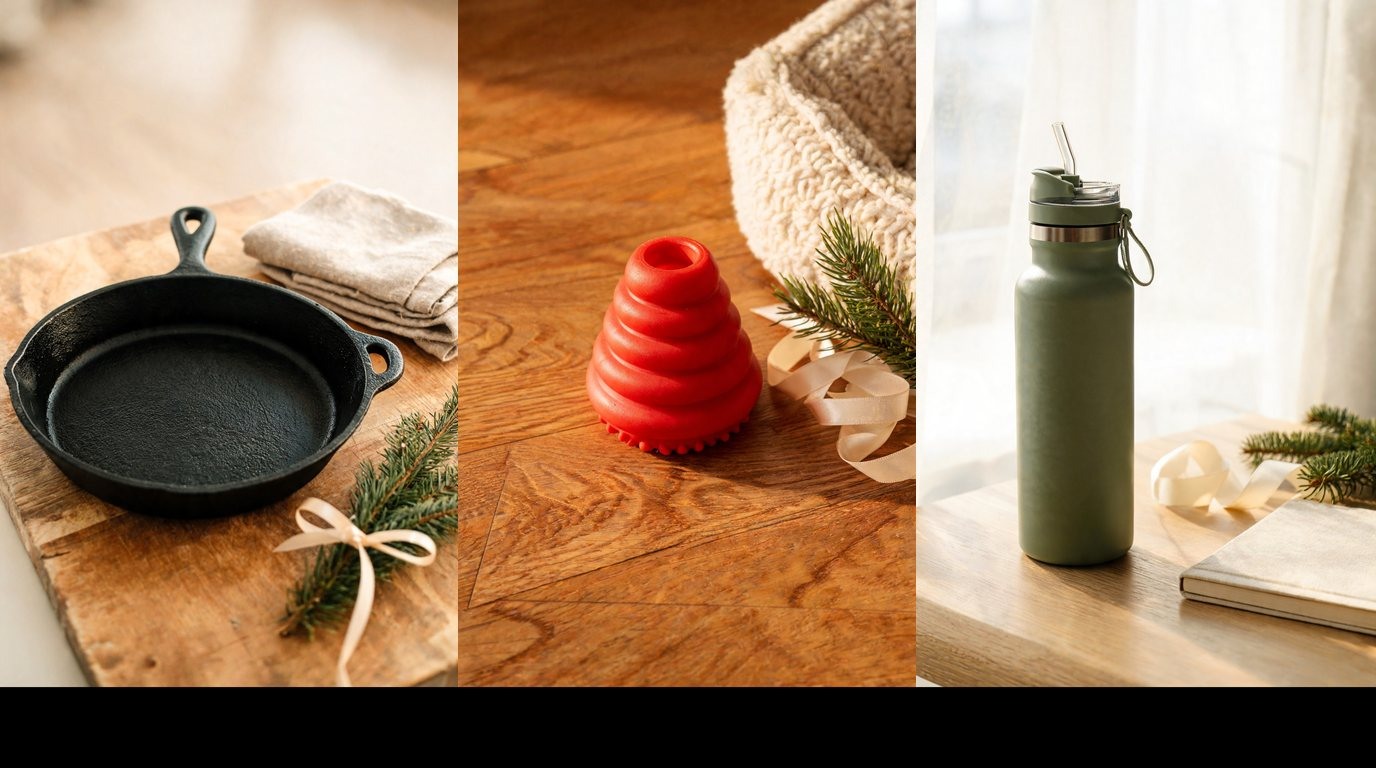
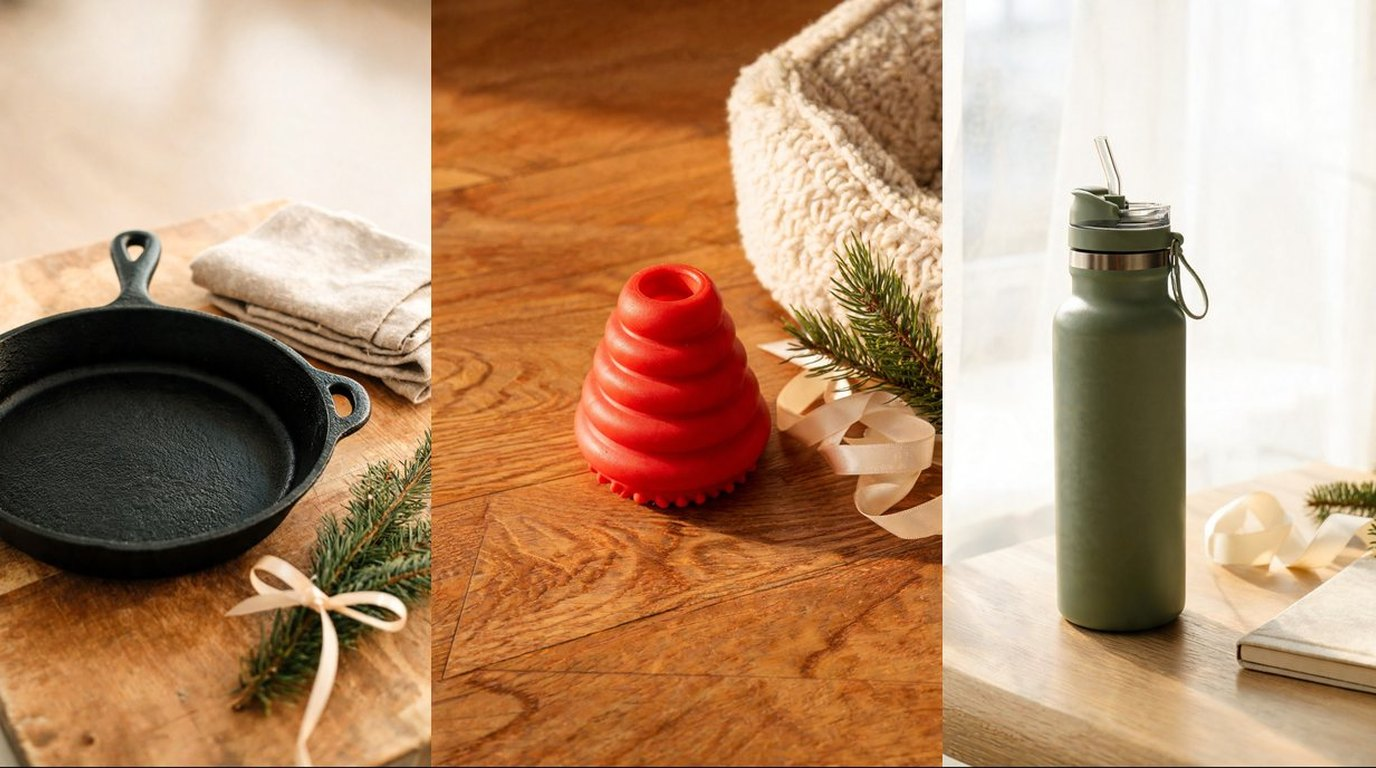
Guides page: add 10 missing hero images, fix holiday hero black bar
Claude-Session: https://claude.ai/code/session_014rjefuyYizqdm1T1pNbaJN

diff --git a/guides/index.html b/guides/index.html
@@ -32,7 +32,7 @@
   </header>
   <section class="gx-grid">
     <a class="gx gx-lead reveal" href="/guides/home-and-kitchen-gift-ideas.html">
-      
+      <span class="gx-img"><img src="/images/guides/hero/home-and-kitchen-gift-ideas.jpg" alt="" width="1376" height="768" loading="eager"></span>
       <span class="gx-body">
         <span class="gx-tag">Gifts guide</span>
         <span class="gx-title">Home and Kitchen Gift Ideas: Five Picks Under $50</span>
@@ -52,7 +52,7 @@
       </span>
     </a>
     <a class="gx reveal" href="/guides/gifts-for-dog-owners.html">
-      
+      <span class="gx-img"><img src="/images/guides/hero/gifts-for-dog-owners.jpg" alt="" width="1376" height="768" loading="lazy"></span>
       <span class="gx-body">
         <span class="gx-tag">Gifts guide</span>
         <span class="gx-title">Gifts for Dog Owners: Four Picks Under $50</span>
@@ -62,7 +62,7 @@
       </span>
     </a>
     <a class="gx reveal" href="/guides/gift-ideas-under-500.html">
-      
+      <span class="gx-img"><img src="/images/guides/hero/gift-ideas-under-500.jpg" alt="" width="1376" height="768" loading="lazy"></span>
       <span class="gx-body">
         <span class="gx-tag">Gifts guide</span>
         <span class="gx-title">Gift Ideas Under $500: Splurge-Worthy Home and Dog Picks</span>
@@ -72,7 +72,7 @@
       </span>
     </a>
     <a class="gx reveal" href="/guides/gift-ideas-under-50.html">
-      
+      <span class="gx-img"><img src="/images/guides/hero/gift-ideas-under-50.jpg" alt="" width="1376" height="768" loading="lazy"></span>
       <span class="gx-body">
         <span class="gx-tag">Gifts guide</span>
         <span class="gx-title">Gift Ideas Under $50: Home, Renter and Dog Picks</span>
@@ -82,7 +82,7 @@
       </span>
     </a>
     <a class="gx reveal" href="/guides/gift-ideas-under-25.html">
-      
+      <span class="gx-img"><img src="/images/guides/hero/gift-ideas-under-25.jpg" alt="" width="1376" height="768" loading="lazy"></span>
       <span class="gx-body">
         <span class="gx-tag">Gifts guide</span>
         <span class="gx-title">Gift Ideas Under $25: Kitchen, Home and Dog Picks</span>
@@ -92,7 +92,7 @@
       </span>
     </a>
     <a class="gx reveal" href="/guides/gift-ideas-under-200.html">
-      
+      <span class="gx-img"><img src="/images/guides/hero/gift-ideas-under-200.jpg" alt="" width="1376" height="768" loading="lazy"></span>
       <span class="gx-body">
         <span class="gx-tag">Gifts guide</span>
         <span class="gx-title">Gift Ideas Under $200: Kitchen, Tech and Pet Picks</span>
@@ -102,7 +102,7 @@
       </span>
     </a>
     <a class="gx reveal" href="/guides/gift-ideas-under-100.html">
-      
+      <span class="gx-img"><img src="/images/guides/hero/gift-ideas-under-100.jpg" alt="" width="1376" height="768" loading="lazy"></span>
       <span class="gx-body">
         <span class="gx-tag">Gifts guide</span>
         <span class="gx-title">Gift Ideas Under $100: Home, Renter and Dog Picks</span>
@@ -112,7 +112,7 @@
       </span>
     </a>
     <a class="gx reveal" href="/guides/fall-capsule-wardrobe-for-women-625-outfits.html">
-      
+      <span class="gx-img"><img src="/images/guides/hero/fall-capsule-wardrobe-for-women-625-outfits.jpg" alt="" width="1376" height="768" loading="lazy"></span>
       <span class="gx-body">
         <span class="gx-tag">Fashion guide</span>
         <span class="gx-title">Fall Capsule Wardrobe for Women: 20 Pieces, 625 Outfits</span>
@@ -122,7 +122,7 @@
       </span>
     </a>
     <a class="gx reveal" href="/guides/fall-capsule-wardrobe-for-men-625-outfits.html">
-      
+      <span class="gx-img"><img src="/images/guides/hero/fall-capsule-wardrobe-for-men-625-outfits.jpg" alt="" width="1376" height="768" loading="lazy"></span>
       <span class="gx-body">
         <span class="gx-tag">Fashion guide</span>
         <span class="gx-title">Fall Capsule Wardrobe for Men: 20 Pieces, 625 Outfits</span>
@@ -132,7 +132,7 @@
       </span>
     </a>
     <a class="gx reveal" href="/guides/fall-capsule-wardrobe-for-kids-625-outfits.html">
-      
+      <span class="gx-img"><img src="/images/guides/hero/fall-capsule-wardrobe-for-kids-625-outfits.jpg" alt="" width="1376" height="768" loading="lazy"></span>
       <span class="gx-body">
         <span class="gx-tag">Fashion guide</span>
         <span class="gx-title">Fall Capsule Wardrobe for Kids: 20 Pieces, 625 Outfits</span>

diff --git a/guides/fall-capsule-wardrobe-for-women-625-outfits.html b/guides/fall-capsule-wardrobe-for-women-625-outfits.html
@@ -36,7 +36,7 @@
     <p class="g-by">By Nest &amp; Paws · Checked Nov 1, 2026 · <a href="/start-here.html">How I pick</a></p>
     
   </header>
-  
+  <figure class="g-hero"><img src="/images/guides/hero/fall-capsule-wardrobe-for-women-625-outfits.jpg" alt="Five women from the collarbone down in olive, brown, oxblood and raspberry layers with matching boots" width="1376" height="768" fetchpriority="high"></figure>
   <div class="pick-bar" role="navigation" aria-label="Jump to a pick"><b>Jump to</b><a href="#pick-1">Women&#x27;s Utility Fashion Jacket</a><a href="#pick-2">Women&#x27;s Tie-Waist Trench Coat</a><a href="#pick-3">Women&#x27;s Crewneck Heritage Cable Cardigan</a><a href="#pick-4">Women&#x27;s Faux Leather Point Collar Cropped Zip-Up Jacket</a><a href="#pick-5">Women&#x27;s Hooded Spongy Zip-Up Sweatshirt</a><a href="#pick-6">Women&#x27;s Cable Collared Pullover Sweater</a><a href="#pick-7">Women&#x27;s Ribbed Knit Pullover Sweater</a><a href="#pick-8">Women&#x27;s Puff Sleeve Tassel Tie-Front Blouse</a><a href="#pick-9">Women&#x27;s Long Sleeve Boyfriend T-Shirt</a><a href="#pick-10">Women&#x27;s Long Sleeve Turtleneck Ribbed Shirt</a><a href="#pick-11">Women&#x27;s High-Rise Wide Leg Jeans</a><a href="#pick-12">Women&#x27;s High-Rise Denim Wide Leg Pants</a><a href="#pick-13">Women&#x27;s Cotton Twill Wide Leg Trousers</a><a href="#pick-14">Women&#x27;s High-Rise Wide Leg Trousers</a><a href="#pick-15">Women&#x27;s High-Rise Linen Wide Leg Pull-On Pants</a><a href="#pick-16">Soda Women&#x27;s Thumb Lug Sole Chelsea Ankle Boots</a><a href="#pick-17">PERIDOT Faux Leather Chunky Loafers</a><a href="#pick-18">Women&#x27;s Spencer Sneakers with Memory Foam</a><a href="#pick-19">Women&#x27;s Henrietta Double Strap Mary Jane Ballet Flats</a><a href="#pick-20">Women&#x27;s Gabrielle Ankle Boots</a><a href="#pick-21">Women&#x27;s Laser Cut Belt</a><a href="#pick-22">Women&#x27;s Reversible Wide Suede Round Center Buckle Belt</a><a href="#pick-23">Women&#x27;s Organic Gold Buckle Belt</a><a href="#pick-24">Women&#x27;s Double Harness Metal Loop Belt</a><a href="#pick-25">Women&#x27;s Solid Horseshoe Belt</a><a href="#pick-26">Cable Knit Beanie Hat</a><a href="#pick-27">Cashmere Beanie</a><a href="#pick-28">Core Essential Gloves</a><a href="#pick-29">Cotton Square Scarf</a><a href="#pick-30">Polka Dot Pattern Square Scarf</a></div>
   <section class="g-section">
     <p>A capsule works when every piece goes with every other piece. Pick one layer, one top, one bottom and one pair of shoes from the five in each row. That is 5 x 5 x 5 x 5 = 625 raw combinations. Not all 625 are great, so twelve of them are shown below, built on one shared palette: olive, chocolate, cream, indigo, oxblood and black.</p><p>We did not test these. We read each Target listing and use only what it says, so check the size chart, color options and care label on the page before you buy. Prices change, so each pick says to check the current price.</p>

diff --git a/guides/fall-capsule-wardrobe-for-kids-625-outfits.html b/guides/fall-capsule-wardrobe-for-kids-625-outfits.html
@@ -36,7 +36,7 @@
     <p class="g-by">By Nest &amp; Paws · Checked Nov 1, 2026 · <a href="/start-here.html">How I pick</a></p>
     
   </header>
-  
+  <figure class="g-hero"><img src="/images/guides/hero/fall-capsule-wardrobe-for-kids-625-outfits.jpg" alt="A rail of five kids outfits in green, mauve, brown, cream and forest with matching boots below" width="1376" height="768" fetchpriority="high"></figure>
   <div class="pick-bar" role="navigation" aria-label="Jump to a pick"><b>Jump to</b><a href="#pick-1">Girls&#x27; Puffer Vest</a><a href="#pick-2">Boys&#x27; Jeans Jacket</a><a href="#pick-3">Girls&#x27; Button-Front Cardigan Sweater</a><a href="#pick-4">Boys&#x27; Fleece Zip-Up Sweatshirt</a><a href="#pick-5">Boys&#x27; Faux Shearling Oversized Fit Zip-Up Jacket</a><a href="#pick-6">Boys&#x27; Striped Waffle Knit Crewneck Pullover Sweater</a><a href="#pick-7">Boys&#x27; Striped Relaxed Fit Crewneck Pullover Sweater</a><a href="#pick-8">Girls&#x27; Waffle Knit Crewneck Pullover Sweater</a><a href="#pick-9">Girls&#x27; Long Sleeve Waffle Knit Henley T-Shirt</a><a href="#pick-10">Boys&#x27; Long Sleeve Johnny Collar Rugby Striped Pullover Sweater</a><a href="#pick-11">Girls&#x27; Mid-Rise Pull-On Wide-Leg Jeans</a><a href="#pick-12">Boys&#x27; Slim Fit Jeans</a><a href="#pick-13">Boys&#x27; Corduroy Baggy Fit Pull-On Pants</a><a href="#pick-14">Boys&#x27; Stretch Woven Jogger Pull-On Pants</a><a href="#pick-15">Girls&#x27; Mid-Rise Straight Leg Jeans</a><a href="#pick-16">Kids&#x27; Benton Lace-Up Suede Boots with Toe Shield</a><a href="#pick-17">Kids&#x27; Boaz Lace-Up Sneakers</a><a href="#pick-18">Kids&#x27; Boston Court Lace-Up Sneakers</a><a href="#pick-19">Kids&#x27; Zuko Lace-Up Boots</a><a href="#pick-20">Kids&#x27; Jaxx Lace-Up Sneakers</a><a href="#pick-21">Girls&#x27; 3pk Bobby Socks</a><a href="#pick-22">Girls&#x27; 3pk Turn Cuff Crew Socks</a><a href="#pick-23">Boys&#x27; 3pk Duck Printed and Striped Crew Socks</a><a href="#pick-24">Kids&#x27; 3pk Dress Socks</a><a href="#pick-25">Boys&#x27; 2pk Mountain Crew Socks</a><a href="#pick-26">Boys&#x27; Knit Hat &amp; Glove Set</a><a href="#pick-27">Boys&#x27; Knit Hat &amp; Glove Set</a><a href="#pick-28">Girls&#x27; Knit Hat &amp; Glove Set</a><a href="#pick-29">Boys&#x27; Knit Hat &amp; Glove Set</a><a href="#pick-30">Girls&#x27; Knit Gloves 2pk</a></div>
   <section class="g-section">
     <p>A capsule works when every piece goes with every other piece. Pick one layer, one top, one bottom and one pair of shoes from the five in each row. That is 5 x 5 x 5 x 5 = 625 raw combinations. Not all 625 are great, so twelve of them are shown below, built on one shared palette: forest green, camel, rust and navy.</p><p>We did not test these. We read each Target listing and use only what it says, so check the size chart, color options and care label on the page before you buy. Prices change, so each pick says to check the current price.</p>

diff --git a/guides/fall-capsule-wardrobe-for-men-625-outfits.html b/guides/fall-capsule-wardrobe-for-men-625-outfits.html
@@ -36,7 +36,7 @@
     <p class="g-by">By Nest &amp; Paws · Checked Nov 1, 2026 · <a href="/start-here.html">How I pick</a></p>
     
   </header>
-  
+  <figure class="g-hero"><img src="/images/guides/hero/fall-capsule-wardrobe-for-men-625-outfits.jpg" alt="Five men from the collarbone down in olive, indigo, black and cream layers with camel and black pants" width="1376" height="768" fetchpriority="high"></figure>
   <div class="pick-bar" role="navigation" aria-label="Jump to a pick"><b>Jump to</b><a href="#pick-1">Men&#x27;s Canvas Field Jacket</a><a href="#pick-2">Men&#x27;s Denim Chore Jacket</a><a href="#pick-3">Men&#x27;s Double Breasted Overcoat</a><a href="#pick-4">Men&#x27;s Denim Trucker Jacket</a><a href="#pick-5">Men&#x27;s Hooded Fleece Zip-Up Sweatshirt</a><a href="#pick-6">Men&#x27;s Soft Knit Wool Blend Crewneck Sweater</a><a href="#pick-7">Men&#x27;s Heavy Weight Nep Crewneck Sweater</a><a href="#pick-8">Men&#x27;s Long Sleeve Chunky Cable Knit Sweater</a><a href="#pick-9">Men&#x27;s Every Wear Long Sleeve Oxford Button-Down Shirt</a><a href="#pick-10">Men&#x27;s Vintage Long Sleeve Pocket T-Shirt</a><a href="#pick-11">Men&#x27;s Every Wear Straight Fit Chino Pants</a><a href="#pick-12">Men&#x27;s Slim Fit Jeans</a><a href="#pick-13">Men&#x27;s Straight Fit Jeans</a><a href="#pick-14">Men&#x27;s Slim Straight Fit Tech Trousers</a><a href="#pick-15">Men&#x27;s Straight Fit Vintage Washed Utility Pants</a><a href="#pick-16">Men&#x27;s Bastian Moc Toe Boots</a><a href="#pick-17">Men&#x27;s Jeffrey Combat Boots</a><a href="#pick-18">Men&#x27;s Cade Court Sneakers</a><a href="#pick-19">Men&#x27;s Harj PU Suede Sneakers</a><a href="#pick-20">Men&#x27;s Simon Laser Cut Sneakers</a><a href="#pick-21">Men&#x27;s Leather Jeans Belt</a><a href="#pick-22">Men&#x27;s Bevel Edge Dress Belt</a><a href="#pick-23">Men&#x27;s Reversible Dress Belt</a><a href="#pick-24">Men&#x27;s Sleek Square Center Bar Buckle Belt</a><a href="#pick-25">Men&#x27;s Leather Braided Belt</a><a href="#pick-26">Men&#x27;s Circular Knit Cuffed Beanie</a><a href="#pick-27">Men&#x27;s Cabin Cable Beanie</a><a href="#pick-28">Men&#x27;s Classic Knit Touch Gloves</a><a href="#pick-29">Men&#x27;s Ivy Hat</a><a href="#pick-30">Men&#x27;s Beanie</a></div>
   <section class="g-section">
     <p>A capsule works when every piece goes with every other piece. Pick one layer, one top, one bottom and one pair of shoes from the five in each row. That is 5 x 5 x 5 x 5 = 625 raw combinations. Not all 625 are great, so twelve of them are shown below, built on one shared palette: olive, indigo, camel, charcoal, navy and cream.</p><p>We did not test these. We read each Target listing and use only what it says, so check the size chart, color options and care label on the page before you buy. Prices change, so each pick says to check the current price.</p>

diff --git a/guides/gift-ideas-under-100.html b/guides/gift-ideas-under-100.html
@@ -35,7 +35,7 @@
     <p class="g-by">By Nest &amp; Paws · Checked Nov 2, 2026 · <a href="/start-here.html">How I pick</a></p>
     
   </header>
-  
+  <figure class="g-hero"><img src="/images/guides/hero/gift-ideas-under-100.jpg" alt="Gift Ideas Under $100: Home, Renter and Dog Picks" width="1376" height="768" fetchpriority="high"></figure>
   <div class="pick-bar" role="navigation" aria-label="Jump to a pick"><b>Jump to</b><a href="#pick-1">Levoit Core 300 Air Purifier</a><a href="#pick-2">Keurig K-Mini Mate Single Serve Coffee Maker</a><a href="#pick-3">Ninja Nutri-Blender Pro with Auto-iQ</a><a href="#pick-4">Bedsure Orthopedic Bolster Dog Sofa Bed</a><a href="#pick-5">Tractive Smart Dog GPS Tracker</a></div>
   <section class="g-section">
     <p>Under $100 is the sweet spot for a gift that feels thoughtful. This list has five, covering a renter, a coffee drinker, a smoothie fan and two dogs.</p><p>We did not test these. We read the product pages and compared ratings on Nov 2, 2026. Prices change during holiday sales, so check each retailer.</p>

diff --git a/guides/gift-ideas-under-500.html b/guides/gift-ideas-under-500.html
@@ -35,7 +35,7 @@
     <p class="g-by">By Nest &amp; Paws · Checked Nov 2, 2026 · <a href="/start-here.html">How I pick</a></p>
     
   </header>
-  
+  <figure class="g-hero"><img src="/images/guides/hero/gift-ideas-under-500.jpg" alt="Gift Ideas Under $500: Splurge-Worthy Home and Dog Picks" width="1376" height="768" fetchpriority="high"></figure>
   <div class="pick-bar" role="navigation" aria-label="Jump to a pick"><b>Jump to</b><a href="#pick-1">KitchenAid Artisan 5-Qt Tilt-Head Stand Mixer</a><a href="#pick-2">Bose SoundLink Max Portable Bluetooth Speaker</a><a href="#pick-3">Dyson V8 Cordless Vacuum</a><a href="#pick-4">The Casper Dog Bed</a><a href="#pick-5">Roborock Qrevo Series Robot Vacuum and Mop</a></div>
   <section class="g-section">
     <p>Under $500 is for the one big gift. These five are long-lasting picks for a baker, a music fan, a clean-home person, a renter and a dog.</p><p>We did not test these. We read the product pages and compared ratings on Nov 2, 2026. Prices change during holiday sales, so check each retailer.</p>

diff --git a/guides/gift-ideas-under-200.html b/guides/gift-ideas-under-200.html
@@ -35,7 +35,7 @@
     <p class="g-by">By Nest &amp; Paws · Checked Nov 2, 2026 · <a href="/start-here.html">How I pick</a></p>
     
   </header>
-  
+  <figure class="g-hero"><img src="/images/guides/hero/gift-ideas-under-200.jpg" alt="Gift Ideas Under $200: Kitchen, Tech and Pet Picks" width="1376" height="768" fetchpriority="high"></figure>
   <div class="pick-bar" role="navigation" aria-label="Jump to a pick"><b>Jump to</b><a href="#pick-1">Ninja Air Fryer Pro XL 6-in-1</a><a href="#pick-2">Amazon Echo Show 8</a><a href="#pick-3">Bose SoundLink Flex Bluetooth Speaker</a><a href="#pick-4">Fi Series 3+ Smart GPS Dog Collar</a><a href="#pick-5">SureFeed Microchip Pet Feeder</a></div>
   <section class="g-section">
     <p>Under $200 gets you a gift people use every day: a kitchen workhorse, a speaker, a smart screen or something for the pets.</p><p>We did not test these. We read the product pages and compared ratings on Nov 2, 2026. Prices change during holiday sales, so check each retailer.</p>

diff --git a/guides/gift-ideas-under-50.html b/guides/gift-ideas-under-50.html
@@ -35,7 +35,7 @@
     <p class="g-by">By Nest &amp; Paws · Checked Nov 1, 2026 · <a href="/start-here.html">How I pick</a></p>
     
   </header>
-  
+  <figure class="g-hero"><img src="/images/guides/hero/gift-ideas-under-50.jpg" alt="Gift Ideas Under $50: Home, Renter and Dog Picks" width="1376" height="768" fetchpriority="high"></figure>
   <div class="pick-bar" role="navigation" aria-label="Jump to a pick"><b>Jump to</b><a href="#pick-1">FURminator Undercoat deShedding Tool</a><a href="#pick-2">Brita Large 10-Cup Water Filter Pitcher</a><a href="#pick-3">Govee Smart LED Bulbs</a><a href="#pick-4">Hydro Flask 32 oz Wide Mouth Bottle with Flex Straw Cap</a><a href="#pick-5">Greenies Large Original Dental Dog Treats</a></div>
   <section class="g-section">
     <p>Under $50 is the easy middle of gift giving: useful, a little special, and not a splurge.</p><p>These five come from brands sold at two retailers, with listing ratings read on Nov 1, 2026. We did not test them.</p>

diff --git a/guides/home-and-kitchen-gift-ideas.html b/guides/home-and-kitchen-gift-ideas.html
@@ -35,7 +35,7 @@
     <p class="g-by">By Nest &amp; Paws · Checked Nov 1, 2026 · <a href="/start-here.html">How I pick</a></p>
     
   </header>
-  
+  <figure class="g-hero"><img src="/images/guides/hero/home-and-kitchen-gift-ideas.jpg" alt="Home and Kitchen Gift Ideas: Five Picks Under $50" width="1376" height="768" fetchpriority="high"></figure>
   <div class="pick-bar" role="navigation" aria-label="Jump to a pick"><b>Jump to</b><a href="#pick-1">Lodge 8-Inch Pre-Seasoned Cast Iron Skillet</a><a href="#pick-2">Dash Mini Waffle Maker</a><a href="#pick-3">Brita Large 10-Cup Water Filter Pitcher</a><a href="#pick-4">Hydro Flask 32 oz Wide Mouth Bottle with Flex Straw Cap</a><a href="#pick-5">LEGO Botanicals Rocking Plants 11506</a></div>
   <section class="g-section">
     <p>Home gifts work when they get used. These five are kitchen and shelf staples, each under $50.</p><p>We did not test them. Listings were read on Nov 1, 2026.</p>

diff --git a/guides/gift-ideas-under-25.html b/guides/gift-ideas-under-25.html
@@ -35,7 +35,7 @@
     <p class="g-by">By Nest &amp; Paws · Checked Nov 1, 2026 · <a href="/start-here.html">How I pick</a></p>
     
   </header>
-  
+  <figure class="g-hero"><img src="/images/guides/hero/gift-ideas-under-25.jpg" alt="Gift Ideas Under $25: Kitchen, Home and Dog Picks" width="1376" height="768" fetchpriority="high"></figure>
   <div class="pick-bar" role="navigation" aria-label="Jump to a pick"><b>Jump to</b><a href="#pick-1">Lodge 8-Inch Pre-Seasoned Cast Iron Skillet</a><a href="#pick-2">LEGO Botanicals Rocking Plants 11506</a><a href="#pick-3">Dash Mini Waffle Maker</a><a href="#pick-4">KONG Classic Dog Toy</a><a href="#pick-5">Chuckit! Ultra Ball</a></div>
   <section class="g-section">
     <p>Gift lists get long fast. This one is five picks, each under $25, each sold at Amazon and one other major retailer.</p><p>We did not test these. We read the listings and compared ratings on Nov 1, 2026.</p>

diff --git a/guides/gifts-for-dog-owners.html b/guides/gifts-for-dog-owners.html
@@ -35,7 +35,7 @@
     <p class="g-by">By Nest &amp; Paws · Checked Nov 1, 2026 · <a href="/start-here.html">How I pick</a></p>
     
   </header>
-  
+  <figure class="g-hero"><img src="/images/guides/hero/gifts-for-dog-owners.jpg" alt="Gifts for Dog Owners: Four Picks Under $50" width="1376" height="768" fetchpriority="high"></figure>
   <div class="pick-bar" role="navigation" aria-label="Jump to a pick"><b>Jump to</b><a href="#pick-1">KONG Classic Dog Toy</a><a href="#pick-2">Chuckit! Ultra Ball</a><a href="#pick-3">FURminator Undercoat deShedding Tool</a><a href="#pick-4">Greenies Large Original Dental Dog Treats</a></div>
   <section class="g-section">
     <p>Dog gifts are easiest when they are things dogs and owners both use. These four are each under $50.</p><p>We did not test them. Listings and ratings were read on Nov 1, 2026.</p>

diff --git a/REVERT.md b/REVERT.md
@@ -75,3 +75,9 @@ Same day: footer note no longer mentions Amazon (tools/build_guides.py, tools/re
 - New `tools/gifts_data_b.py` and `tools/build_gifts_b.py` (idempotent; reuses `build_gifts.py` helpers).
 - Retailer links read on product pages Nov 2, 2026; Amazon ASINs confirmed on product pages. Product images are AI-generated concept images (Higgsfield, Seedream 5.0 lite), not listing photos.
 - Revert: `git revert <this commit>`; products.js entries are additive.
+
+## Guides page hero fix (Nov 3, 2026)
+- Added 10 missing hero images (images/guides/hero/*.jpg, 1376x768, three-panel from the guide's own AI concept product images) for gift-ideas-under-25/50/100/200/500, home-and-kitchen-gift-ideas, gifts-for-dog-owners and the three fall capsule wardrobe guides. Every guide card on guides/index.html now shows an image: lead card image beside the title, other cards image above (existing CSS, unchanged).
+- Fixed holiday-gift-ideas-2026 hero (removed a black bar at the bottom).
+- Rebuilt guides/index.html, the 10 affected guide pages and sitemap lastmod via the normal build chain. No CSS or tools changes.
+- Revert: `git revert <this commit>`.
